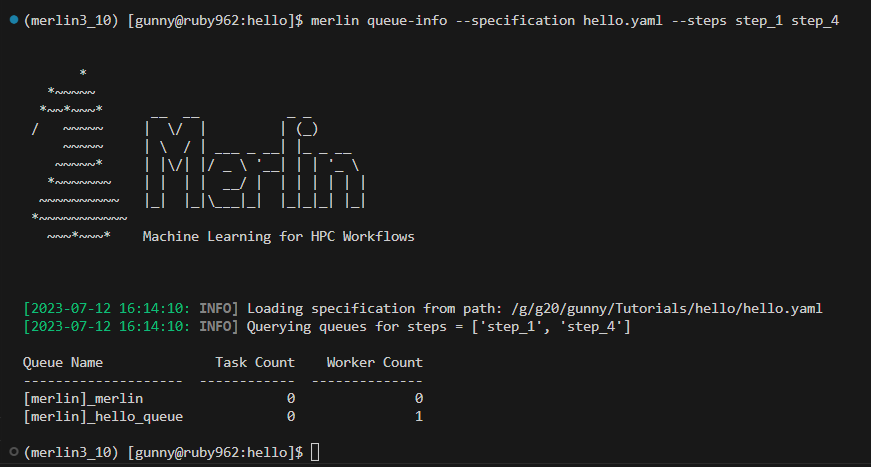
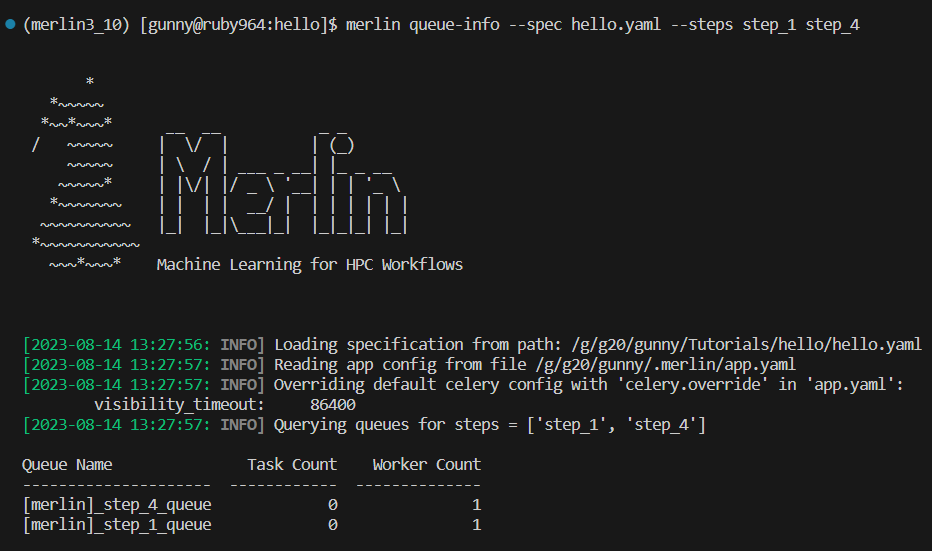
update docs to accommodate --specification to --spec change

diff --git a/docs/source/merlin_monitoring.rst b/docs/source/merlin_monitoring.rst
@@ -667,21 +667,21 @@ option for task server is celery so you most likely will not want to use this op
 Specification Options
 +++++++++++++++++++++
 
-There are three options that revolve around using a spec file to query queue information: ``--specification``, ``--steps``,
+There are three options that revolve around using a spec file to query queue information: ``--spec``, ``--steps``,
 and ``--vars``.
 
 .. note::
 
-  The ``--steps`` and ``--vars`` options MUST be used alongside the ``--specification`` option. They CANNOT be used by themselves.
+  The ``--steps`` and ``--vars`` options MUST be used alongside the ``--spec`` option. They CANNOT be used by themselves.
 
-Using the ``--specification`` option allows you to query queue statistics for queues that only exist in the spec file you provide.
+Using the ``--spec`` option allows you to query queue statistics for queues that only exist in the spec file you provide.
 This is the same functionality as the ``merlin status`` command prior to the release of Merlin v1.11.0.
 
 Usage:
 
 .. code-block:: bash
 
-  merlin queue-info --specification <spec file>
+  merlin queue-info --spec <spec file>
 
 Example:
 
@@ -691,17 +691,16 @@ Example:
   Output of the queue-info command using the specification option
 
 If you'd like to see queue information for queues that are attached to specific steps in your workflow, use the ``--steps`` option.
-This option MUST be used alongside the ``--specification`` option.
+This option MUST be used alongside the ``--spec`` option.
 
 Usage:
 
 .. code-block:: bash
 
-  merlin queue-info --specification <spec file> --steps <step name(s)>
+  merlin queue-info --spec <spec file> --steps <step name(s)>
 
-Say I have a spec file with steps named ``step_1`` through ``step_4`` and each step is attached to a different queue. In this scenario ``step_1``
-and ``step_4`` are attached to ``hello_queue`` and the default Merlin queue respectively. Using the ``--steps`` option for these two steps
-gives us:
+Say I have a spec file with steps named ``step_1`` through ``step_4`` and each step is attached to a different queue ``step_1_queue`` through
+``step_4_queue`` respectively. Using the ``--steps`` option for these two steps gives us:
 
 .. figure:: ../images/queue-info/steps-option.png
   :alt: output of queue-info using the steps option
@@ -709,13 +708,13 @@ gives us:
   Output of the queue-info command using the steps option to query steps named step_1 and step_4 of a workflow
 
 The ``--vars`` option can be used to modify any variables defined in your spec file from the CLI. This option MUST be used alongside the
-``--specification`` option. The list is space-delimited and should be given after the input yaml file.
+``--spec`` option. The list is space-delimited and should be given after the input yaml file.
 
 Usage:
 
 .. code-block:: bash
 
-  merlin queue-info --specification <spec file> --vars QUEUE_VAR=new_queue_var_value
+  merlin queue-info --spec <spec file> --vars QUEUE_VAR=new_queue_var_value
 
 Dumping Queue Info to Output Files
 ++++++++++++++++++++++++++++++++++
@@ -735,7 +734,7 @@ dump calls by looking at the timestamps of the dumps. For CSV files this timesta
 :ref:`Queue Info CSV Dump Format` below) and for JSON files this timestamp will be the top level key to the queue info entry (see
 :ref:`Queue Info JSON Dump Format` below).
 
-Using any of the ``--specific-steps``, ``--specification``, or ``--steps`` options will modify the output that's written to the output file.
+Using any of the ``--specific-steps``, ``--spec``, or ``--steps`` options will modify the output that's written to the output file.
 
 Queue Info CSV Dump Format
 --------------------------

diff --git a/docs/source/merlin_commands.rst b/docs/source/merlin_commands.rst
@@ -395,7 +395,7 @@ Usage:
 
 .. code:: bash
 
-  $ merlin queue-info [--dump <csv or json file>] [--specification <spec_file.yaml>] [--specific-queues <queue name(s)>] [--steps <step name(s)>] [--task_server celery] [--vars <VARIABLES=<VARIABLES>>]
+  $ merlin queue-info [--dump <csv or json file>] [--spec <spec_file.yaml>] [--specific-queues <queue name(s)>] [--steps <step name(s)>] [--task_server celery] [--vars <VARIABLES=<VARIABLES>>]
 
 .. list-table:: Options
     :widths: 20 20 40 20
@@ -413,10 +413,10 @@ Usage:
       - filename
       - Dump the queue information to a file. Provide the filename (must be .csv or .json).
       - None
-    * - --specification
+    * - --spec
       - filename
       - Path to a Merlin YAML spec file. This will only display information for queues defined in this spec file.
-        This is the same behavior as the status command before Merlin version 1.11.0 was released.
+        This is the same behavior as the status command prior to Merlin version 1.11.0.
       - None
     * - --specific-queues
       - string
@@ -424,7 +424,7 @@ Usage:
       - None
     * - --steps
       - string
-      - The specific steps in the YAML file you want to query the queues of. This option MUST be used with the --specification option.
+      - The specific steps in the YAML file you want to query the queues of. This option MUST be used with the --spec option.
       - "all"
     * - --task_server
       - string
@@ -432,7 +432,7 @@ Usage:
       - celery
     * - --vars
       - string
-      - Specify desired Merlin variable values to override those found in the specification. Space-delimited. Example: '--vars
+      - Specify desired Merlin variable values to override those found in the specification. Space-delimited. This option MUST be used with the --spec option. Example: '--vars
         LEARN=path/to/new_learn.py EPOCHS=3'
       - None
 
